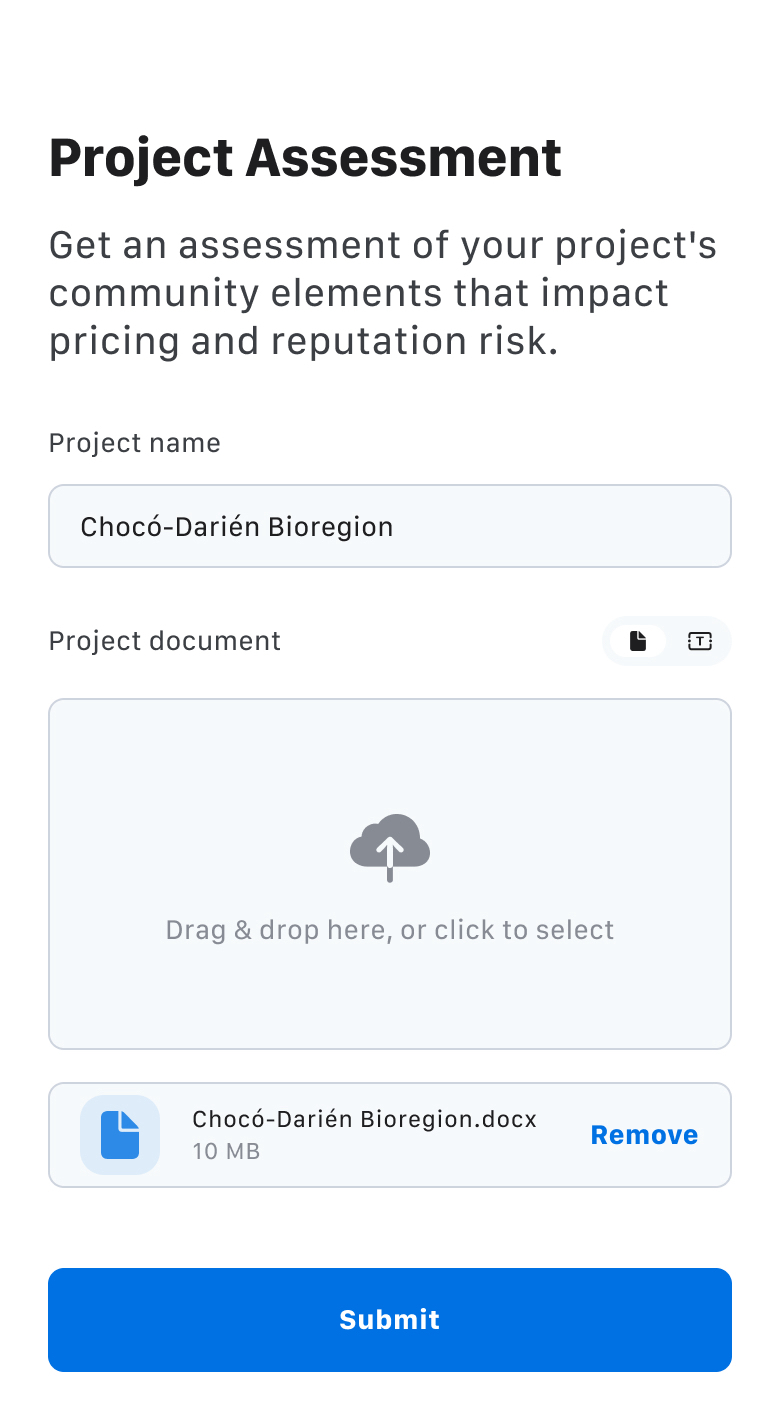
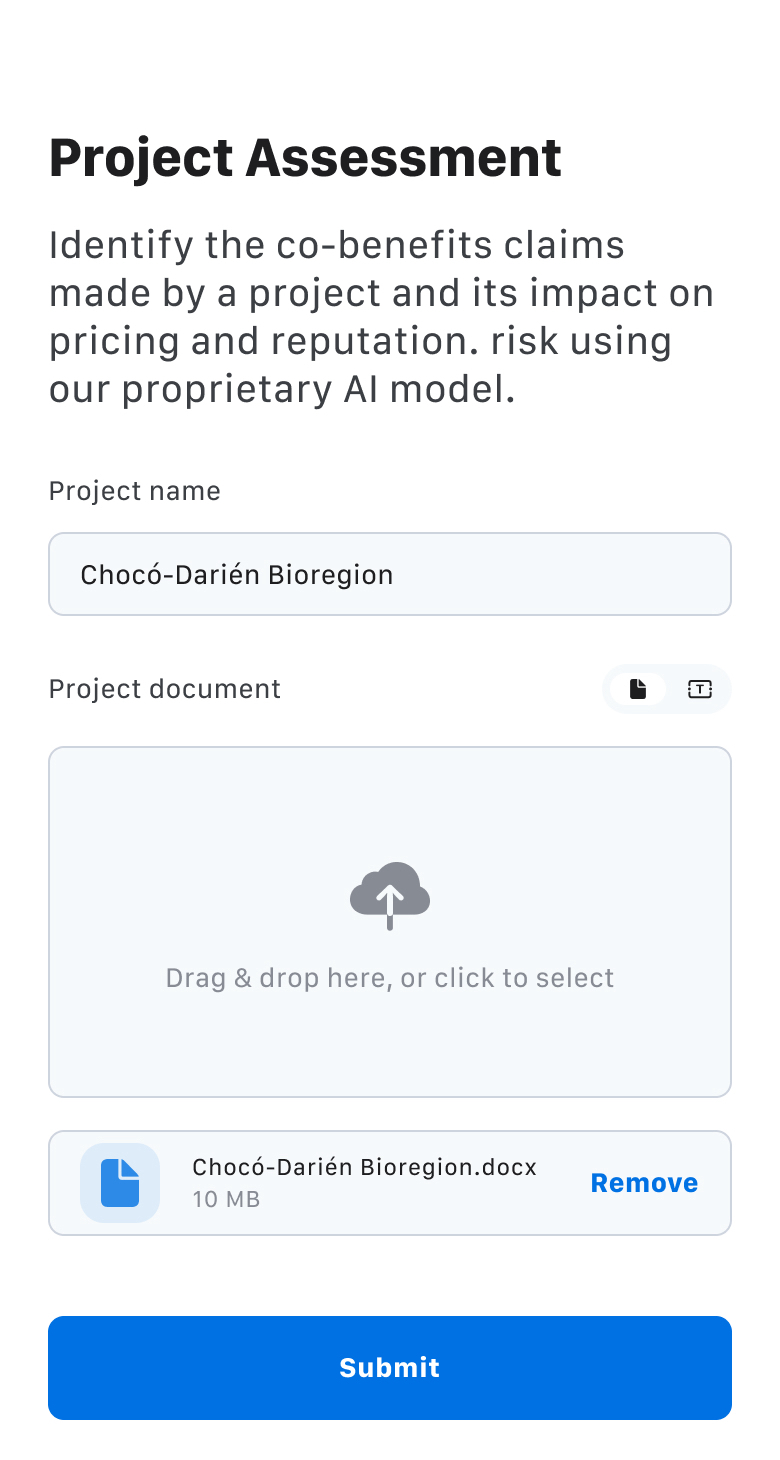
:speech_balloon: Update copy

diff --git a/src/modules/home/sections/FeaturesSection/Features.tsx b/src/modules/home/sections/FeaturesSection/Features.tsx
@@ -54,10 +54,10 @@ export default function Features() {
               textAlign: isPhone ? 'center' : 'left',
             }}
           >
-            Add your project documents or just type in the text. Anyone building
-            or assessing our project can use our AI model to analyse and perform
-            an assessment on credit pricing and reputation risk across climate
-            and co-benefits indicators. We do not store any data you upload.
+            Add your project documents. Anyone assessing a carbon removal or
+            avoidance project can use our AI model to instantly identify
+            co-benefits claims made by a project and assess the impact on
+            reputation risk and carbon price.
           </Typography>
         </FeaturesTextsContainer>
 
@@ -126,7 +126,7 @@ export default function Features() {
               marginBottom: isPhone ? theme.spacing.md : theme.spacing.lg,
             }}
           >
-            Get your pricing and risk impact analysis.
+            Reputation impact analysis & co-benefits due diligence.
           </Typography>
 
           <Typography
@@ -138,10 +138,10 @@ export default function Features() {
               textAlign: isPhone ? 'center' : 'right',
             }}
           >
-            Receive a detailed evaluation of your project with summaries, scores
-            and feedback. Understand how credit pricing and reputation risk will
-            be impacted from each indicator so that you can make informed
-            decisions about where to invest.
+            Receive an instant assessment of a project claims with detailed
+            analysis, scores and feedback. Understand how reputation risk and
+            carbon price will be impacted by each claim made by the project to
+            verify and monitor those claims on an ongoing basis.
           </Typography>
         </FeaturesTextsContainer>
       </FeaturesSubsectionContainer>

diff --git a/src/modules/home/sections/ValuePropositionsSection/ValuePropositionsSection.tsx b/src/modules/home/sections/ValuePropositionsSection/ValuePropositionsSection.tsx
@@ -32,7 +32,7 @@ export default function ValuePropositionsSection() {
           </Typography>
 
           <Typography as="h2" variant="paragraph1">
-            Get assurance on future price stability based on core risk elements.
+            Identify, verify & monitor project claims for pre-issuance projects.
           </Typography>
         </ValuePropositionCard>
 
@@ -49,8 +49,7 @@ export default function ValuePropositionsSection() {
           </Typography>
 
           <Typography as="h2" variant="paragraph1">
-            Mitigate reputation risk and invest in climate projects with
-            confidence.
+            Mitigate reputation risk and automate co-benefits due diligence.
           </Typography>
         </ValuePropositionCard>
 
@@ -67,7 +66,8 @@ export default function ValuePropositionsSection() {
           </Typography>
 
           <Typography as="h2" variant="paragraph1">
-            Get faster access to financing for your nature-based solution.
+            Get faster access to financing and display a strong investor
+            narrative.
           </Typography>
         </ValuePropositionCard>
       </ValuePropositionCardsContainer>

diff --git a/src/modules/home/sections/HeroSection/HeroSection.tsx b/src/modules/home/sections/HeroSection/HeroSection.tsx
@@ -34,17 +34,16 @@ export default function HeroSection() {
           height={16}
           style={{ marginRight: theme.spacing.xxs }}
         />
-        Try our community risk assessment demo
+        Try our co-benefits assessment now
         <ArrowIcon height={12} style={{ marginLeft: theme.spacing.xxs }} />
       </InformativePill>
 
       <HomePageTitle variant="title2">
-        Restore nature with confidence.
+        Invest in carbon projects with confidence.
       </HomePageTitle>
 
       <HomePageSubtitle variant="title5" color="level3">
-        AI-assessments on co-benefits claims for reducing reputation risk on
-        climate investments.
+        AI-powered due diligence & MRV for co-benefits claims.
       </HomePageSubtitle>
 
       <Button

diff --git a/src/modules/home/sections/MissionStatementSection/MissionStatementSection.tsx b/src/modules/home/sections/MissionStatementSection/MissionStatementSection.tsx
@@ -18,8 +18,8 @@ export default function MissionStatementSection() {
         }}
       >
         <ProjectDescriptionTitle variant="title3" color="level5">
-          We are building the most complete due diligence offering for corporate
-          sustainability teams and nature investors.
+          Our mission is to facilitate the development of the next generation of
+          carbon projects.
         </ProjectDescriptionTitle>
       </PosterCard>
     </SectionContainer>

diff --git a/public/index.html b/public/index.html
@@ -21,7 +21,7 @@
       work correctly both with client-side routing and a non-root public URL.
       Learn how to configure a non-root public URL by running `npm run build`.
     -->
-    <title>Climeinvest - Financial Infrastructure for Nature</title>
+    <title>Climeinvest - Due diligence for Nature Investment</title>
   </head>
   <body>
     <noscript>You need to enable JavaScript to run this app.</noscript>
